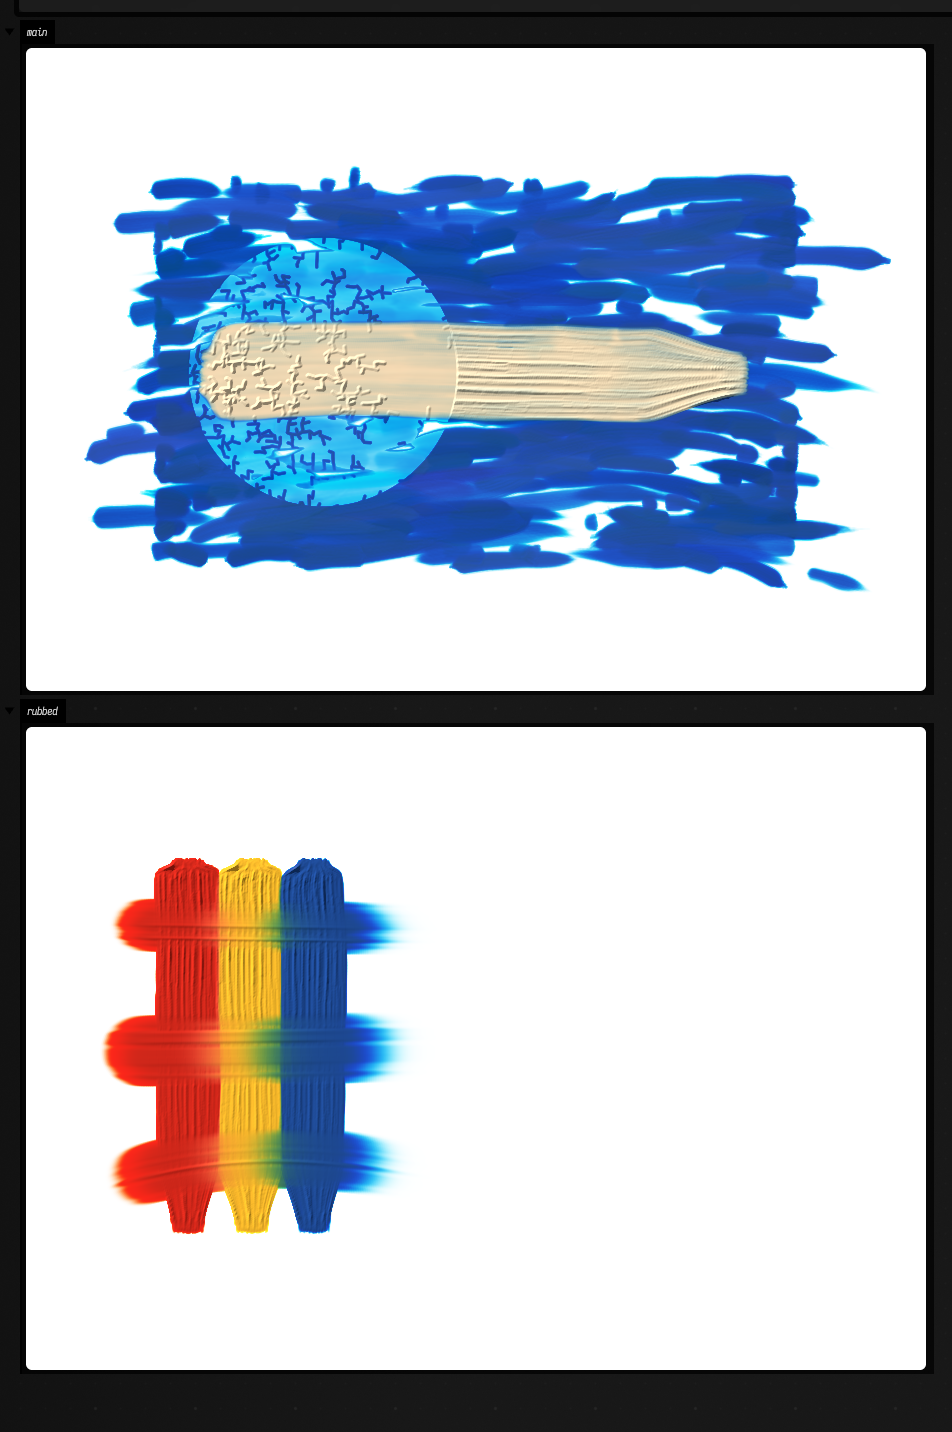
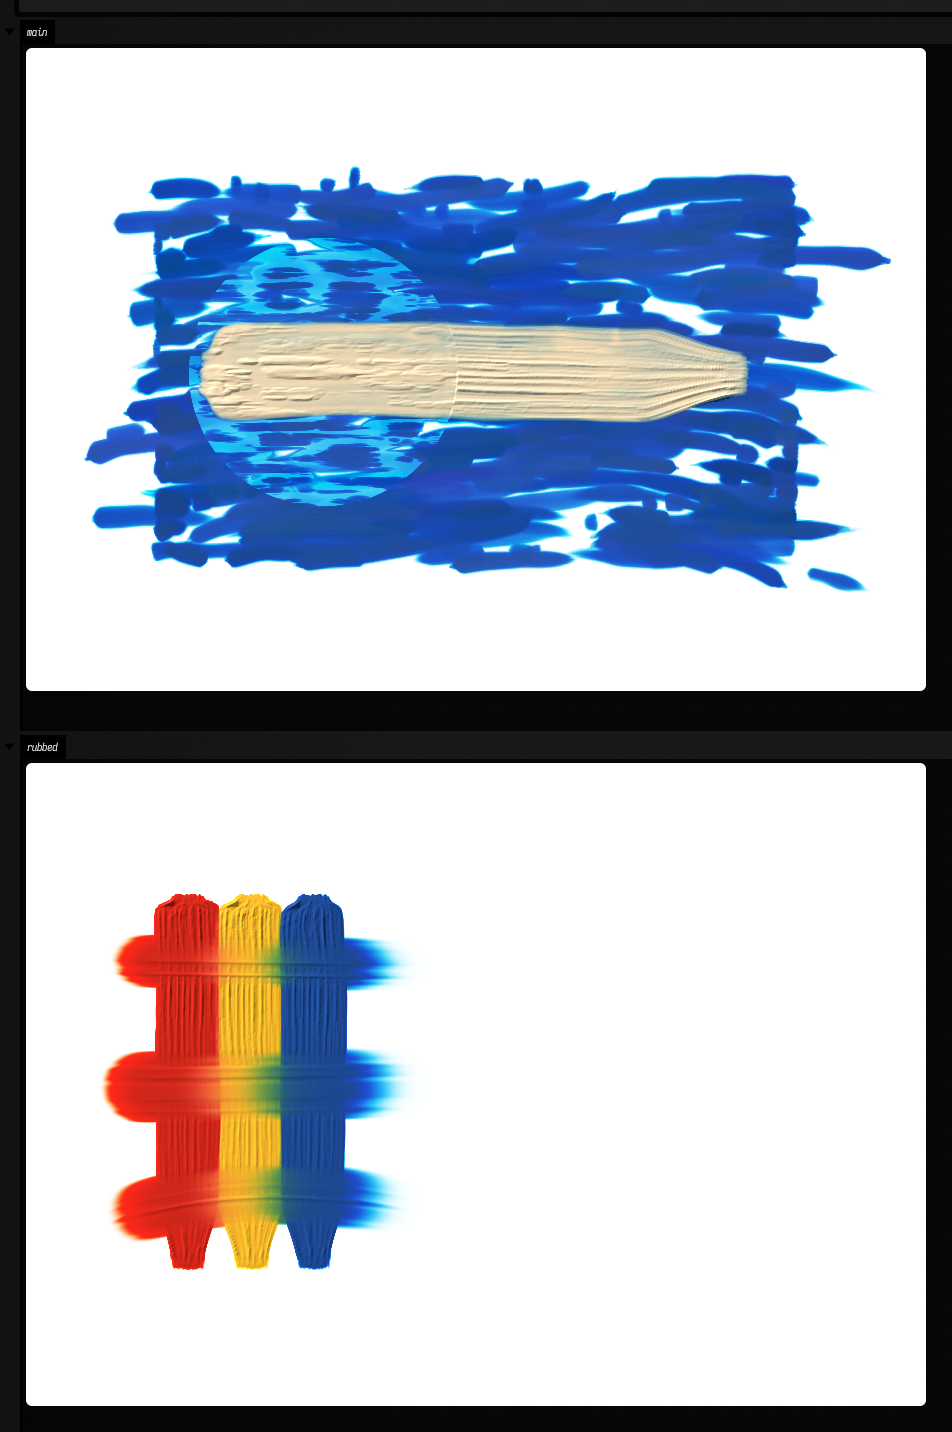
Paint: fold/press back to main's ridged peel; fingering only for blow
Marc preferred main's fold figure. squish.rs is main's again (three helpers
pub(crate) for blow); fold.png, press_rub.png and the fold/press prose are
main's. The demo drops its fold box; the contrast test averages 8 puffs.

diff --git a/src/jvmMain/kotlin/afield/graphics/paint/PaintCanvas.kt b/src/jvmMain/kotlin/afield/graphics/paint/PaintCanvas.kt
@@ -326,9 +326,8 @@ class PaintCanvas internal constructor(
      * through the gap the pressure leaves swaps [transfer] of itself with it (0.5: both sides end up
      * one mixture), less as it cures; pressure spreads the pressed paint outward for [spread] 0..1 of
      * the time it takes to level; pulling the halves apart splits the film between them, evenly at
-     * [peel] 0, and as [peel] goes to 1 in viscous fingers about half of [ridge] wide: air drawn in from
-     * the film's open edges, where the gap opens first, branching toward the fold (the Saffman–Taylor
-     * instability, grown on the paint itself, not a texture; what one side keeps its mirror lost). Paint is moved, never made or lost; dry
+     * [peel] 0, in branching ridges [ridge] units apart that run away from the fold as [peel] goes to
+     * 1 (what one side keeps on a ridge its mirror lost). Paint is moved, never made or lost; dry
      * paint does not move. Each point meets the nearest pixel to its mirror image, so a fold along x or
      * y is exact and a diagonal fold is mirrored to within a pixel (paint is conserved either way).
      */
@@ -342,8 +341,7 @@ class PaintCanvas internal constructor(
     /**
      * Press a flat plate [radius] across onto the wet paint at ([x], [y]) at [pressure] 0..1, let the
      * squashed paint spread for [spread] 0..1, and peel the plate off toward ([dx], [dy]): it takes
-     * [take] 0..1 of the film it touched, unevenly, in viscous fingers about half of [ridge] wide grown in
-     * from the plate's trailing edge and running with the peel,
+     * [take] 0..1 of the film it touched, unevenly, in ridges [ridge] apart running with the peel,
      * [peel] 0..1 deep (a monotype pull, a palm pressed and lifted). Returns the mm³ moved and lifted.
      */
     fun press(

diff --git a/src/jvmTest/kotlin/afield/graphics/paint/SquishTest.kt b/src/jvmTest/kotlin/afield/graphics/paint/SquishTest.kt
@@ -118,8 +118,8 @@ class SquishTest {
         // the mean over a few puffs: one puff's spread is noisy
         fun branching(contrast: Double) = PaintCanvas(800, aspect = 1.0, seed = 5).use { c ->
             film(c)
-            listOf(250.0, 420.0, 590.0, 760.0).mapIndexed { i, x ->
-                c.blow(line(x, 510.0, x + 2.0, 510.0), radius = 14.0, pressure = 0.9, contrast = contrast, tendril = 4.0, seed = 3L + i).branching
+            listOf(200.0, 400.0, 600.0, 800.0).flatMap { x -> (0..1).map { k -> x to k } }.mapIndexed { i, (x, k) ->
+                c.blow(line(x, 380.0 + 260.0 * k, x + 2.0, 380.0 + 260.0 * k), radius = 14.0, pressure = 0.9, contrast = contrast, tendril = 4.0, seed = 3L + i).branching
             }.average()
         }
         val (low, high) = branching(1.0) to branching(200.0)

diff --git a/public/docs/paint_canvas.md b/public/docs/paint_canvas.md
@@ -395,12 +395,11 @@ squashed, rubbed and peeled. Field follows the method he describes; none of its 
   the gap the `pressure` leaves, the two films swap `transfer` of themselves (0.5 makes them one
   mixture). Pressure spreads the squashed paint outward for `spread` of the time it takes to level,
   thick paint faster than thin. Opening the fold splits the film between the two sides: evenly at
-  `peel = 0`, and in branching fingers about half of `ridge` units wide as `peel` rises (see
-  [Fingers where the film splits](#fingers-where-the-film-splits)). Where one side keeps paint,
-  its mirror is bare. Past `peel = 0.67` the film splits wholly. A fold along x or y prints
+  `peel = 0`, and in branching ridges `ridge` units apart as `peel` rises. Where one side keeps a
+  ridge, its mirror is bare. Past `peel = 0.67` the film splits wholly. A fold along x or y prints
   an exact mirror image; a diagonal fold is mirrored to within a pixel.
 - `canvas.press(x, y, radius)` presses a flat plate onto the paint and peels it off toward
-  `(dx, dy)`. The plate takes `take` of the film it touched, unevenly, in the same kind of fingers, running with the peel. This
+  `(dx, dy)`. The plate takes `take` of the film it touched, unevenly, in the same kind of ridges. This
   is a monotype pull, or a palm pressed down and lifted.
 - `canvas.rub(line, radius, pressure)` drags a thumb along a line. It picks up the paint that stands
   above the film a light touch rides on and lays it down further along. The paint is drawn out and
@@ -414,9 +413,9 @@ does not move.
 
 The box below lays three thick strokes on the left half, folds the canvas down the middle and opens
 it. The top image is the canvas before the fold, the bottom one after: each stroke is printed onto
-the right half, and the two prints carry opposite fingers where the film split.
+the right half, and the two prints carry opposite ridges where the film split.
 
-```diffstatic_runner {data-lang=kotlin screenshot="assets/paint_canvas/fold.png" alt="two canvases, one above the other. The top one has three thick strokes on its left half: red, blue and yellow, with bristle ridges. In the bottom one each stroke has been printed onto the right half as a mirror image, and the film has split in thin branching fingers: on the right half they are white veins branching through the paint, and on the left half the same fingers stand as branching strokes of paint on bare canvas, so where one half kept paint, its mirror is bare" wait="20" capture="box" open-outputs="true" padding="20" requires="paint" name="fold" embed=true scale=1}
+```diffstatic_runner {data-lang=kotlin screenshot="assets/paint_canvas/fold.png" alt="two canvases, one above the other. The top one has three thick strokes on its left half: red, blue and yellow, with bristle ridges. In the bottom one each stroke has been printed onto the right half as a mirror image, and both halves are broken by streaky bare patches running away from the fold: where one half kept paint, its mirror is bare" wait="20" capture="box" open-outputs="true" padding="20" requires="paint" name="fold" embed=true scale=1}
 :::static
 val canvas = PaintCanvas(900, aspect = 1.4, seed = 7)
 val brush = canvas.brush(BrushKind.HogFlat, width = 70.0)
@@ -439,7 +438,7 @@ display("main", canvas.png(wet = true, light = PaintLight.Raking))
 Next, a plate is pressed onto a wet passage and peeled off, and then a thumb is rubbed across three
 stripes, so their colours smear into each other.
 
-```diffstatic_runner {data-lang=kotlin screenshot="assets/paint_canvas/press_rub.png" alt="two canvases, one above the other. In the top one a blue passage of broad strokes is crossed by a thick cream bar; on its left a round patch, where a plate was pressed and peeled, is pale blue crossed by thin, dark, branching fingers of paint, and the cream bar there is crinkled with small branching grooves. In the bottom one three vertical stripes, red, yellow and blue, are crossed by three horizontal smears dragged to the right, red pulled into yellow and yellow into blue, which turns green where they meet" wait="20" capture="box" open-outputs="true" padding="20" requires="paint" name="press_rub" embed=true scale=1}
+```diffstatic_runner {data-lang=kotlin screenshot="assets/paint_canvas/press_rub.png" alt="two canvases, one above the other. In the top one a blue passage of broad strokes is crossed by a thick cream bar; on its left a round patch, where a plate was pressed and peeled, is mottled pale blue with ridged, lifted paint, and the cream bar there is wrinkled. In the bottom one three vertical stripes, red, yellow and blue, are crossed by three horizontal smears dragged to the right, red pulled into yellow and yellow into blue, which turns green where they meet" wait="20" capture="box" open-outputs="true" padding="20" requires="paint" name="press_rub" embed=true scale=1}
 :::static
 val plate = PaintCanvas(900, aspect = 1.4, seed = 8)
 plate.work(FLine().rect(150, 150, 700, 420), rgb(0.12, 0.3, 0.55), handling = Handling.Broad, stiff = 0.5)
@@ -475,24 +474,16 @@ gesture, and each shows the canvas before and after.
     pigment, height, wetness and drift on the GPU. Field's engine is single-threaded Rust. On a
     1600 × 1280 canvas on an M-series Mac a fold takes about 160 ms, a plate 60 ms and a rub 30 ms,
     against 530 ms for one heavy brush stroke. So the gestures are not the bottleneck; the brushes
-    are. Blowing and true viscous fingering came later (next section). The tests (`SquishTest`, and the Rust tests in
+    are. Blowing came later (next section). The tests (`SquishTest`, and the Rust tests in
     `squish.rs`) check that paint is conserved, that an even fold prints a mirror image, and that a
     peel leaves complementary ridges.
 
-### Fingers where the film splits
-
-When two surfaces with wet paint between them are pulled apart, air has to get into the widening gap.
-It does not come in as a straight front. Wherever the front bulges a little, the paint ahead of it
-gives way more easily, so the bulge grows. The front breaks into fingers, and the fingers split
-again. This is viscous fingering, the Saffman–Taylor instability, and it is what makes the
-tree-like patterns of decalcomania. The more viscous the paint is than what pushes into it, the
-more the fingers branch; air into oil paint branches like diffusion-limited aggregation.
-
-`fold` and `press` grow these fingers rather than drawing them from a texture. The air comes in
-where the gap opens first: from the edges of a folded film far from the fold, and from the trailing
-edge of a peeled plate. Thinner, more open paint gives way more easily, so the fingers run into it.
-
 ### Blowing paint
+
+Air pushed into wet paint does not advance as a straight front. Wherever the front bulges a little,
+the paint ahead gives way more easily, so the bulge grows, and the front breaks into fingers that
+split again: viscous fingering, the Saffman–Taylor instability. The more viscous the paint is than
+what pushes into it, the more the fingers branch.
 
 `canvas.blow(line, radius, pressure)` blows air through a straw or an airbrush along any FLine. Where
 the jet meets wet paint, the paint runs away ahead of it, more along the direction of travel than
@@ -517,7 +508,7 @@ for (y in [220, 330, 440, 550]) canvas.stroke(FLine().moveTo(120, y).lineTo(880,
 display("before", canvas.png(wet = true, light = PaintLight.Raking))
 
 // a straw, blown along a curve through the film
-canvas.blow(FLine().moveTo(150, 480).cubicTo(350, 250, 600, 600, 850, 300), radius = 14.0, pressure = 0.8, tendril = 5.0)
+canvas.blow(FLine().moveTo(150, 480).cubicTo(350, 250, 600, 600, 850, 300), radius = 14.0, pressure = 0.9, tendril = 9.0)
 display("main", canvas.png(wet = true, light = PaintLight.Raking))
 ```
 
@@ -531,7 +522,7 @@ val brush = canvas.brush(BrushKind.HogFlat, width = 130.0)
 brush.load(rgb(0.1, 0.18, 0.55), amount = 5.0, stiff = 0.3)
 for (y in [140, 260]) canvas.stroke(FLine().moveTo(60, y).lineTo(940, y), brush, pressure = 1.0..1.0)
 for ((x, contrast) in [170.0 to 1.5, 500.0 to 8.0, 830.0 to 200.0]) {
-    canvas.blow(FLine().moveTo(x, 200).lineTo(x + 2, 200), radius = 16.0, pressure = 1.0, contrast = contrast, tendril = 4.0)
+    canvas.blow(FLine().moveTo(x, 200).lineTo(x + 2, 200), radius = 16.0, pressure = 1.0, contrast = contrast, tendril = 8.0)
 }
 display("main", canvas.png(wet = true, light = PaintLight.Raking))
 ```
@@ -540,17 +531,13 @@ display("main", canvas.png(wet = true, light = PaintLight.Raking))
     The pattern is the dielectric breakdown model (Niemeyer, Pietronero and Wiesmann, 1984) on a
     coarse grid over the wet film (`native/field-paint/vendor/paint/src/field/fingers.rs`). The
     pressure in the paint obeys Darcy's law in a thin gap, with the paint's mobility from its
-    stiffness and how far it has set; a peel adds suction where the gap is opening, a jet holds the
-    paint at the edge of its reach. The front advances a cell at a time, chosen with probability
-    proportional to the local pressure gradient raised to `eta = 1.5 (1 - 1/contrast)`: 0 is Eden
-    growth, 1 DLA. It replaced the ridged noise the first fold used, so the pattern now responds to
-    where the paint is and how thick it is. `SquishTest` pins that a blow conserves the wet paint and
-    that branching rises with contrast; the Rust test `fingers_branch_more_as_the_viscosity_contrast_rises`
-    pins the same on a bare grid. The fingers are drawn along the segments they grew,
-    between points jittered inside their cells, at a width set by `ridge` or `tendril`, so they run
-    at any angle; Rust tests pin that a fold's halves are complementary and that the fingers' edges
-    are not aligned with the grid. Not modelled: surface tension choosing the finger width (the
-    caller does), and thin paint pushed into thick paint as a tool of its own.
+    stiffness and how far it has set, held at the edge of the jet's reach. The front advances a cell
+    at a time, chosen with probability proportional to the local pressure gradient raised to
+    `eta = 1.5 (1 - 1/contrast)`: 0 is Eden growth, 1 DLA. Each finger is drawn along the segment it
+    grew, between points jittered inside their cells, `tendril` wide, so fingers run at any angle;
+    the paint in a finger's way is pushed out to its sides and tip. `SquishTest` pins that a blow
+    conserves the wet paint and that branching rises with contrast. The same fingering was tried for
+    the fold's and plate's peel and set aside: the ridged peel read better.
 
 ## Brushes made to order
 

diff --git a/public/docs/agent_transcripts.md b/public/docs/agent_transcripts.md
@@ -2050,13 +2050,12 @@ and chalk* sketches a vase in 2B, hatches its shadow side in 4B and rules a chal
 
 ### paint_blow_fingers
 
-Three boxes that push wet paint [with air](paint_canvas.md#blowing-paint). *Blow a straw across wet
-paint* blows along a curve through a thick blue film, clearing a track with ragged tendrils and rims.
-*One puff, three viscosity contrasts* blows at three points, from a compact blot to long branching
-fingers, and reports how far each spreads. *Fold, open, and the film splits in fingers* folds a canvas
-so the film splits in [viscous fingers](paint_canvas.md#fingers-where-the-film-splits). Each box
-shows the canvas and reports the paint moved; the wet paint is the same before and after. All three
-need the optional paint library (`./gradlew buildPaintNative`).
+Two boxes that push wet paint [with air](paint_canvas.md#blowing-paint). *Blow a straw across wet
+paint* blows along a curve through a thick blue film, clearing a track with tendrils and rims. *One
+puff, three viscosity contrasts* blows at three points, from compact fingers to long branching ones,
+and reports how far each spreads. Each box shows the canvas and reports the paint moved; the wet
+paint is the same before and after. Both need the optional paint library
+(`./gradlew buildPaintNative`).
 
 [Open →](offline.html?file=assets/agent_transcripts/paint_blow_fingers/metadata.edn)
 
